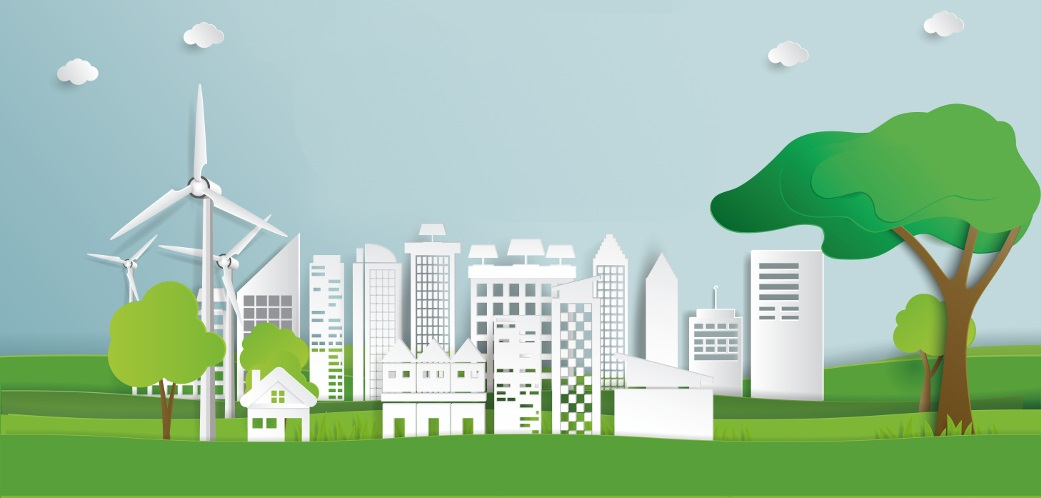
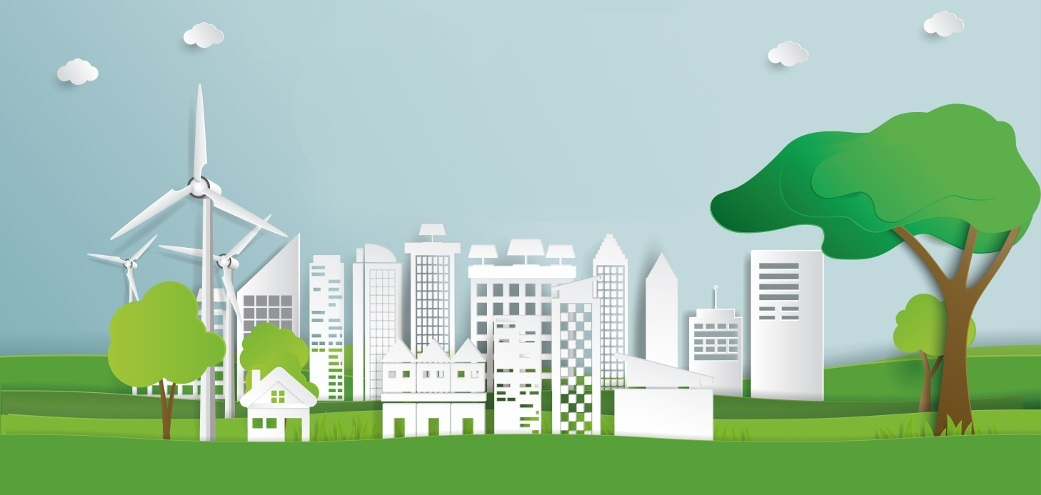
début du front footer

diff --git a/src/component/SlidePartnaire.jsx b/src/component/SlidePartnaire.jsx
@@ -1,0 +1,31 @@
+import { React } from 'react';
+import afaq from '../assets/partenaires/Afaq_9001.png';
+import franceRelance from '../assets/partenaires/france-relance.png';
+import fse from '../assets/partenaires/fse.jpg';
+import opqf from '../assets/partenaires/opqf.png';
+import region from '../assets/partenaires/region.jpg';
+import synofdes from '../assets/partenaires/synofdes.png';
+
+const SlidePartner = (props) => {
+
+    return(
+        <div className="w-5/6 overflow-hidden relative m-auto p-2">
+            <div className="animate-scroll flex w-[calc(300px * 12)] h-full">
+                <img className="w-[300px] h-[180px] object-contain mx-2" src={afaq} alt="Logo AFAQ" />
+                <img className="w-[300px] h-[180px] object-contain mx-2" src={franceRelance} alt="Logo France relance" />
+                <img className="w-[300px] h-[180px] object-contain mx-2" src={fse} alt="Logo union européen fse" />
+                <img className="w-[300px] h-[180px] object-contain mx-2" src={opqf} alt="Logo OPQF" />
+                <img className="w-[300px] h-[180px] object-contain mx-2" src={region} alt="Logo Région nouvelle aquitaine" />
+                <img className="w-[300px] h-[180px] object-contain mx-2" src={synofdes} alt="Logo Synofdes" />
+                <img className="w-[300px] h-[180px] object-contain mx-2" src={afaq} alt="Logo AFAQ" />
+                <img className="w-[300px] h-[180px] object-contain mx-2" src={franceRelance} alt="Logo France relance" />
+                <img className="w-[300px] h-[180px] object-contain mx-2" src={fse} alt="Logo union européen fse" />
+                <img className="w-[300px] h-[180px] object-contain mx-2" src={opqf} alt="Logo OPQF" />
+                <img className="w-[300px] h-[180px] object-contain mx-2" src={region} alt="Logo Région nouvelle aquitaine" />
+                <img className="w-[300px] h-[180px] object-contain mx-2" src={synofdes} alt="Logo Synofdes" />
+            </div>
+        </div>
+    )
+}
+
+export { SlidePartner };

diff --git a/src/scenes/LayoutFooter.jsx b/src/scenes/LayoutFooter.jsx
@@ -1,8 +1,13 @@
 import React from 'react';
 import { Footer } from 'rsuite';
-
+import { SlidePartner } from '../component/SlidePartnaire';
 const LayoutFooter = () => {
-    return (<Footer className='h-12 md:h-20  lg:h-24'>Footer</Footer>);
+    return (<Footer className=' bg-green-afpa'>
+        <SlidePartner/>
+        <div className="bg-green-700">
+            <p className='text-center text-black p-1'>© Copyright Centre Afpa de Rochefort. Tous les droits sont réservés.</p>
+        </div>
+    </Footer>);
 }
 
 export { LayoutFooter };

diff --git a/tailwind.config.js b/tailwind.config.js
@@ -18,7 +18,18 @@ module.exports = {
       backgroundImage : {
         'header_footer' : "url('/src/assets/background_img.jpg')"
       },
-
+      keyframes: {
+        scroll: {
+          '0%': { transform: 'translateX(0)' },
+          '100%': { transform: 'translateX(calc(-300px * 6))' },
+        }
+      },
+      animation: {
+        scroll : 'scroll 15s linear infinite',
+      },
+      colors : {
+        'green-afpa' : '#58a03a', 
+      }
 
     },
   },

diff --git a/src/scenes/Layout.jsx b/src/scenes/Layout.jsx
@@ -32,8 +32,9 @@ const Layout = (props) => {
         : "" }
         {props.content}
       </Container>
-      <LayoutFooter />
     </Container>
+    <LayoutFooter />
+
 
   </>);
 };
